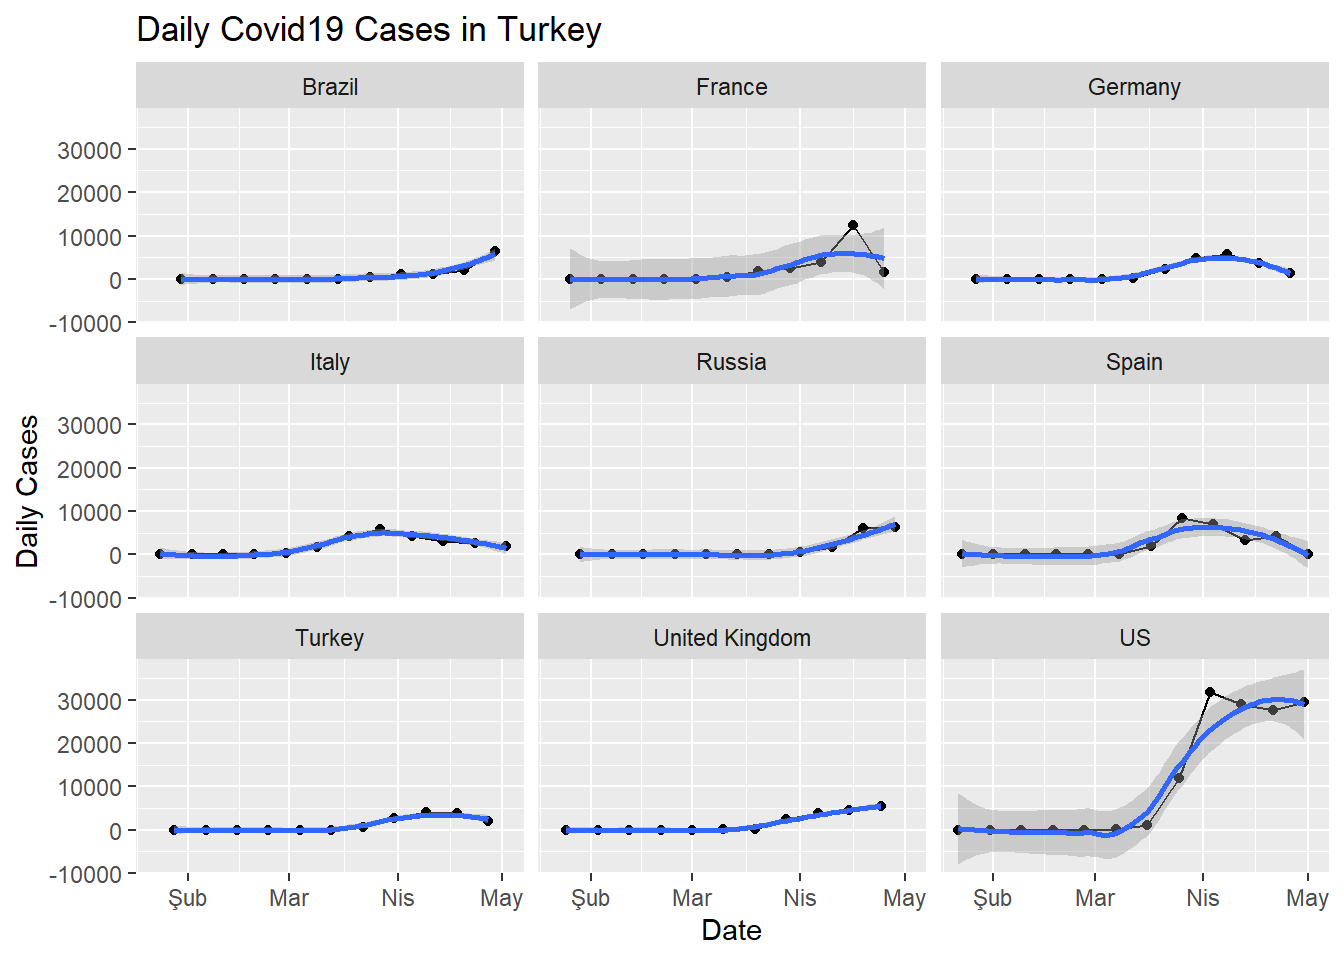
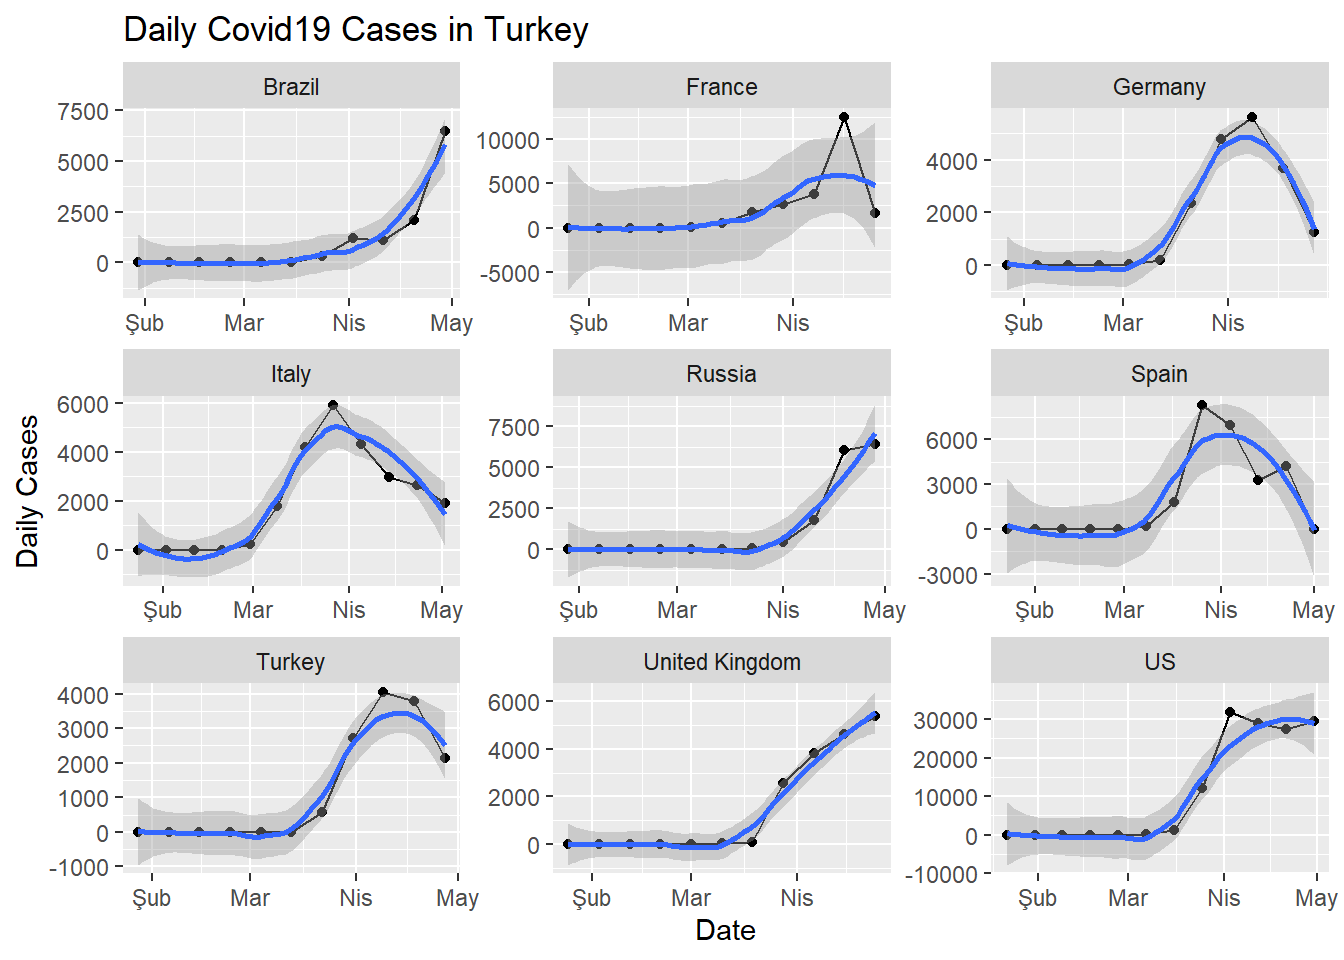
FP

diff --git a/2020/05/covid19-ggplot2/index.html b/2020/05/covid19-ggplot2/index.html
@@ -463,7 +463,7 @@ top_nine_countries</code></pre>
   geom_point() + # Added points
   geom_smooth() + # Added regression line, locally fitted with loess method 
   labs(y = &quot;Daily Cases&quot;, x = &quot;Date&quot;, title = &quot;Daily Covid19 Cases in Turkey&quot;) + # Axis labels and main title added
-  facet_wrap(~ country, nrow = 3)</code></pre>
+  facet_wrap(~ country, nrow = 3, scales = &quot;free&quot;)</code></pre>
 <p><img src="https://auditanddata.com/post/2020-05-02-covid19-ggplot2_files/figure-html/unnamed-chunk-12-1.png" width="672" /></p>
 </div>
 <div class="footnotes">
